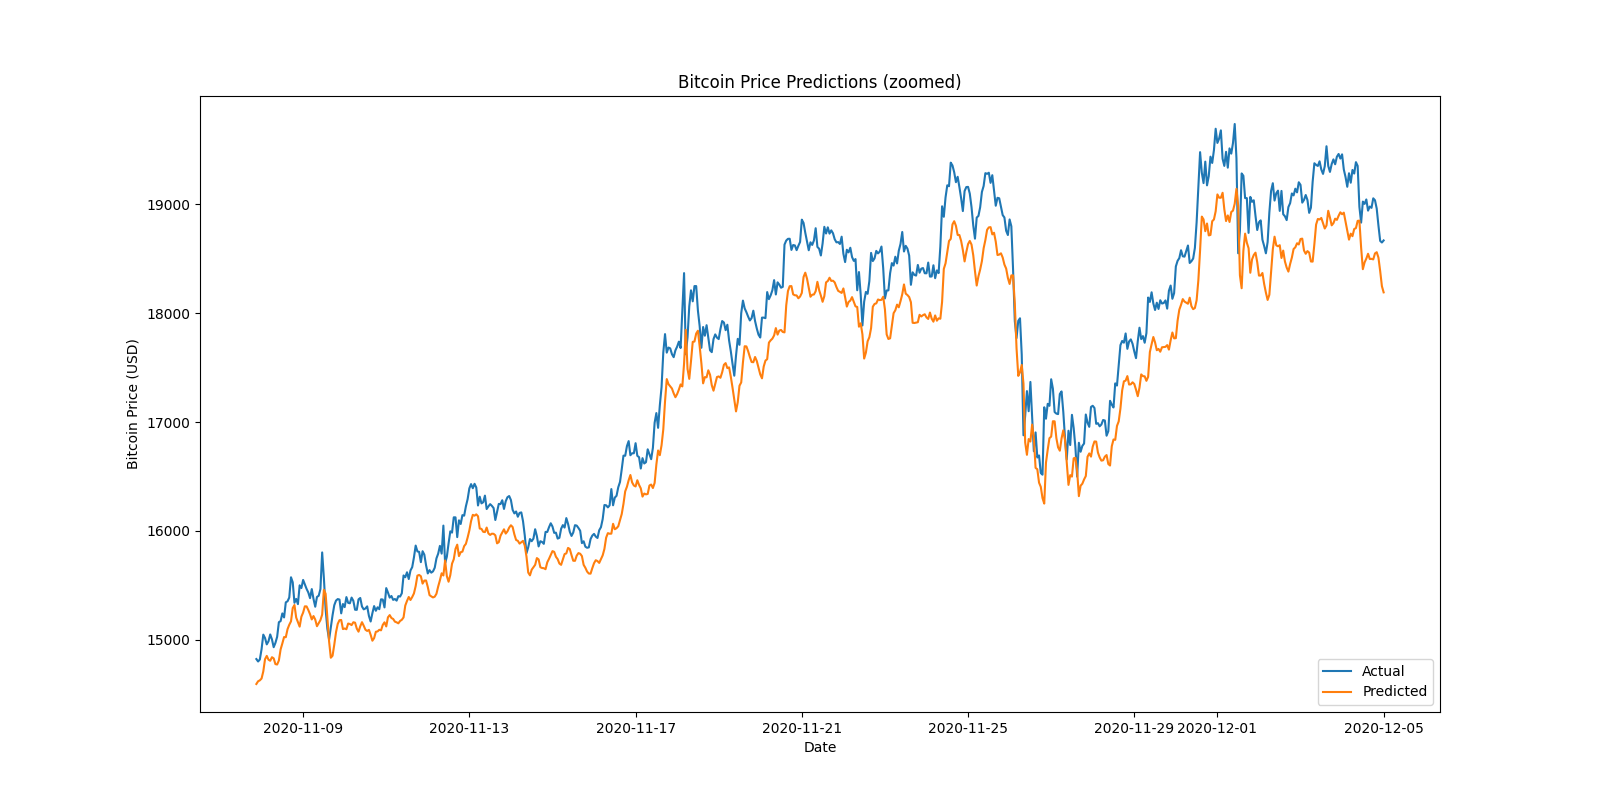
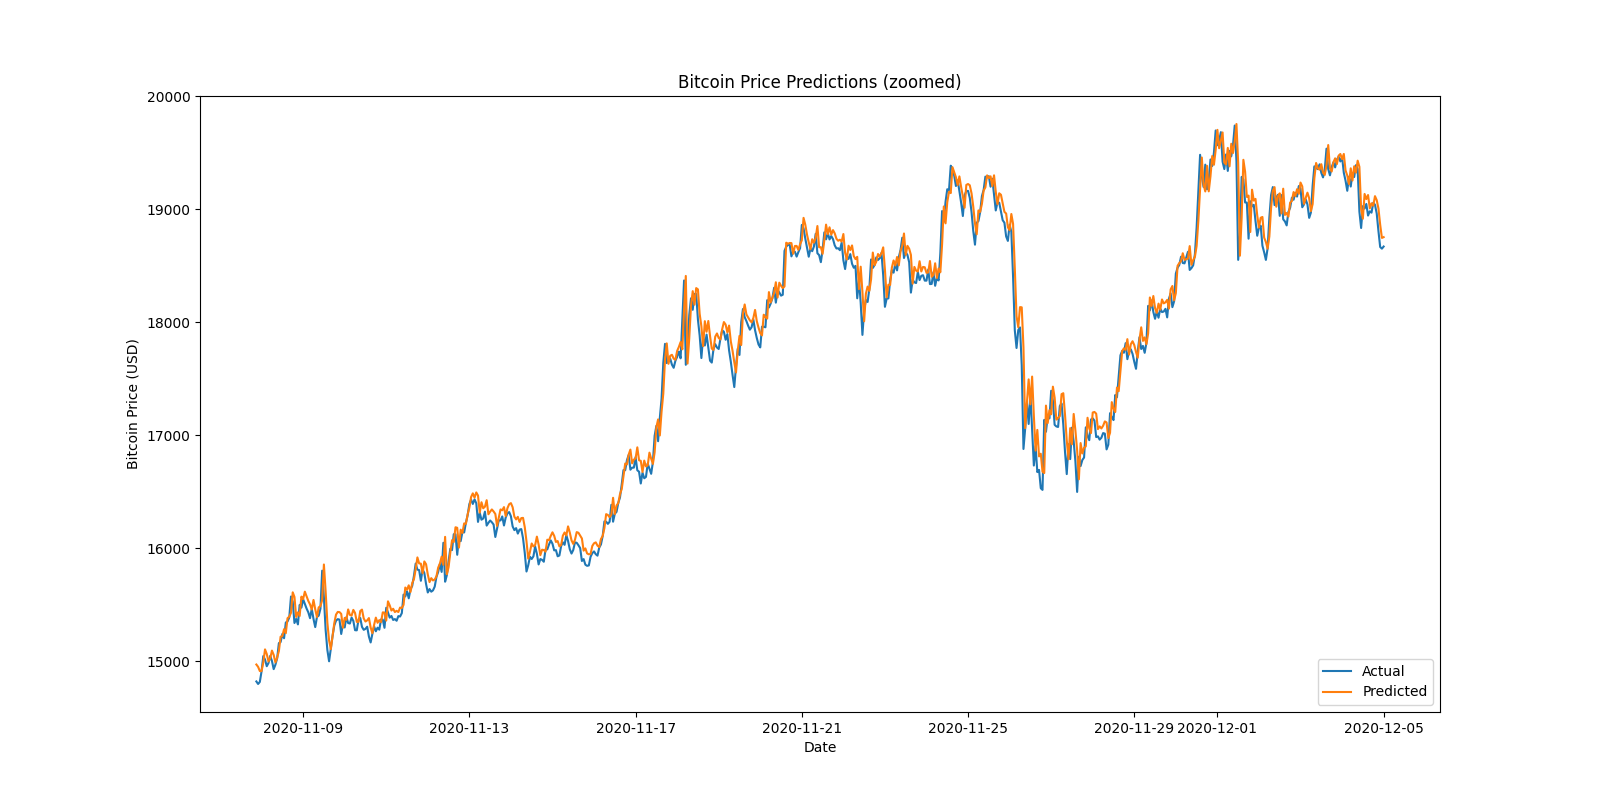
change lookback to 10 and epochs to 4

diff --git a/predict_bc.py b/predict_bc.py
@@ -42,7 +42,7 @@ plot_and_save(df['close'], 'Date', 'Bitcoin Price (USD)', 'Hourly Close Price Hi
 #this pointless ngl. don't use the function ^
 
 midpoint = 2350
-lookback = 80
+lookback = 10
 
 #creating dataframe
 data = df.sort_index(ascending=True, axis=0)
@@ -80,7 +80,7 @@ model.add(LSTM(units=65))
 model.add(Dense(1))
 
 model.compile(loss='mean_squared_error', optimizer='adam')
-model.fit(x_train, y_train, epochs=3, batch_size=1, verbose=2)
+model.fit(x_train, y_train, epochs=4, batch_size=1, verbose=2)
 
 #predicting values, using past lookback from the train data
 inputs = new_data[len(new_data) - len(valid) - lookback:].values
@@ -93,7 +93,7 @@ for i in range(lookback,inputs.shape[0]):
 X_test = np.array(X_test)
 
 X_test = np.reshape(X_test, (X_test.shape[0],X_test.shape[1],1))
-closing_price = model.predict(X_test) #~!!! predict
+closing_price = model.predict(X_test) #~!!!
 closing_price = scaler.inverse_transform(closing_price)
 
 rms=np.sqrt(np.mean(np.power((valid-closing_price),2)))
